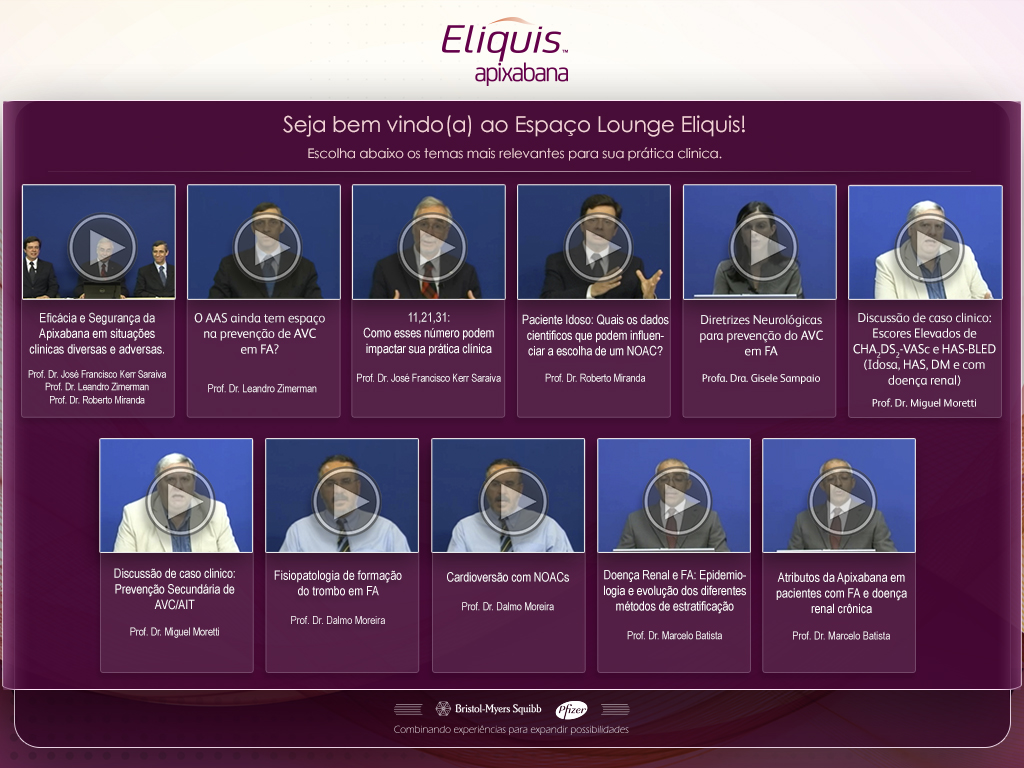
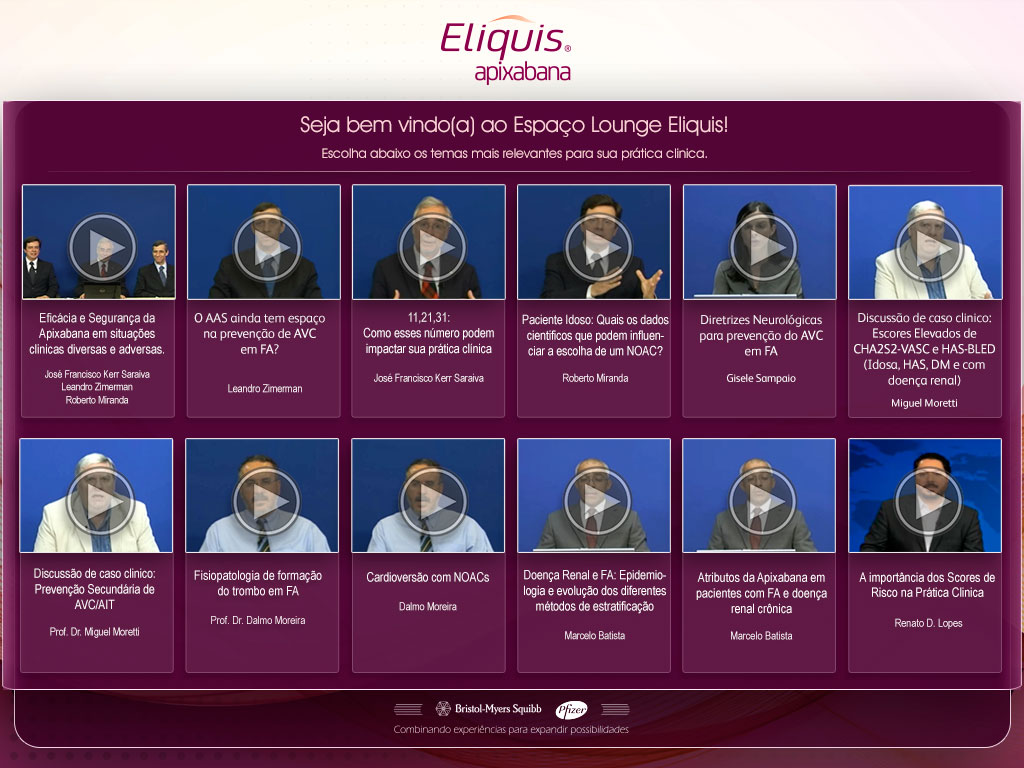
fundo img

diff --git a/index.html b/index.html
@@ -74,8 +74,8 @@
     {
         position: absolute;
         top:447px;
-        left:100px;
-        width: 833px;
+        left:20px;
+        width: 1010px;
         height: 100px;
         //background-color: #0b84fe;
         
@@ -84,11 +84,11 @@
     .baseHome .ul2 li
     {
         list-style: none;
-        width: 150px;
+        width: 140px;
         height: 206px;
-        //background-color: #16a085;
+      //  background-color: #16a085;
         float: left;
-        margin-right: 15px;
+        margin-right: 25px;
         margin-bottom: 20px;
         opacity: .7;
     }
@@ -112,7 +112,8 @@
                 '4414_FISIOPATOLOGIA_DE_FORMACAO_DO_TROMBO_EM_FA',
                 '4415_CARDIOVERSAO_COM_NOACs',
                 '4416_ATRIBUTOS_DA_APIXABANA_EM_PACIENTES',
-                '4417_DOENCA_RENAL_E_FA_EPIDEMIOLOGIA');
+                '4417_DOENCA_RENAL_E_FA_EPIDEMIOLOGIA',
+                '44234_AULA_MAO_DICA ELIQUIS');
         $('li').each(function(index)
         {
            
@@ -121,7 +122,9 @@
                // alert(JSON.stringify(window.appRootDir)); 
               //  alert(window.appRootDir.fullPath + arrVideos[$(this).attr('id')]+'.mp4');
               //  console.log($(this).attr('id'))
-                var ref = window.open('http://192.168.0.4:81/GoogleDrive/Server/Projetos/MaxExperience/Desenvolvimento/Clientes/Pfizer/Eliquis-Video-Cadastro/Eliquis-Video/public_html/EliquisVideo/www/videos/'+ arrVideos[$(this).attr('id')]+'.mp4', '_blank', 'location=yes');
+             //   var ref = window.open('http://192.168.0.4:81/GoogleDrive/Server/Projetos/MaxExperience/Desenvolvimento/Clientes/Pfizer/Eliquis-Video-//Cadastro/Eliquis-Video/public_html/EliquisVideo/www/videos/'+ arrVideos[$(this).attr('id')]+'.mp4', '_blank', 'location=yes');
+
+             var ref = window.open('http://maxexpe-001-site4.smarterasp.net/video_pfizer/'+ arrVideos[$(this).attr('id')]+'.mp4', '_blank', 'location=yes');
                
 ref.addEventListener('exit', function(event) {        
      
@@ -185,6 +188,7 @@ ref.addEventListener('exit', function(event) {
                 <li id="8" style="margin-left: 0px;"></li>
                 <li id="9" style="margin-left: 0px;"></li>
                 <li id="10" style="margin-left: 0px;"></li>
+                <li id="11" style="margin-left: 5px;"></li>
                 
             </ul>
                
